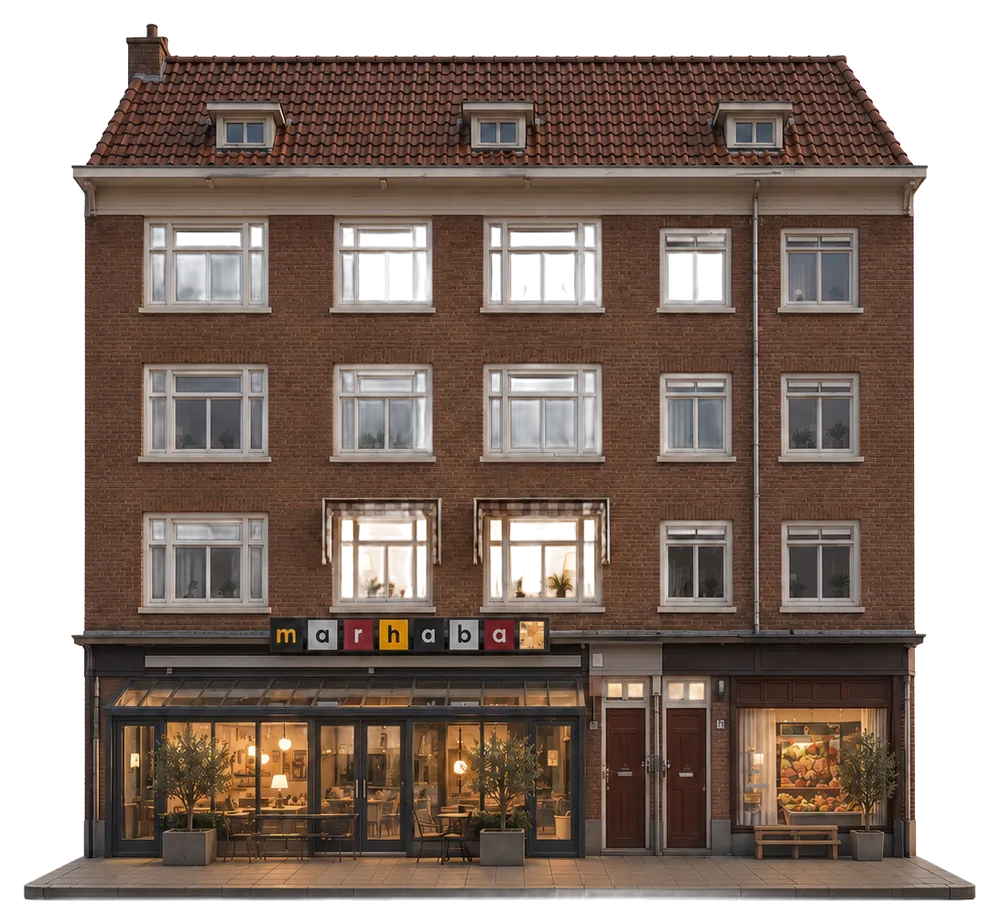
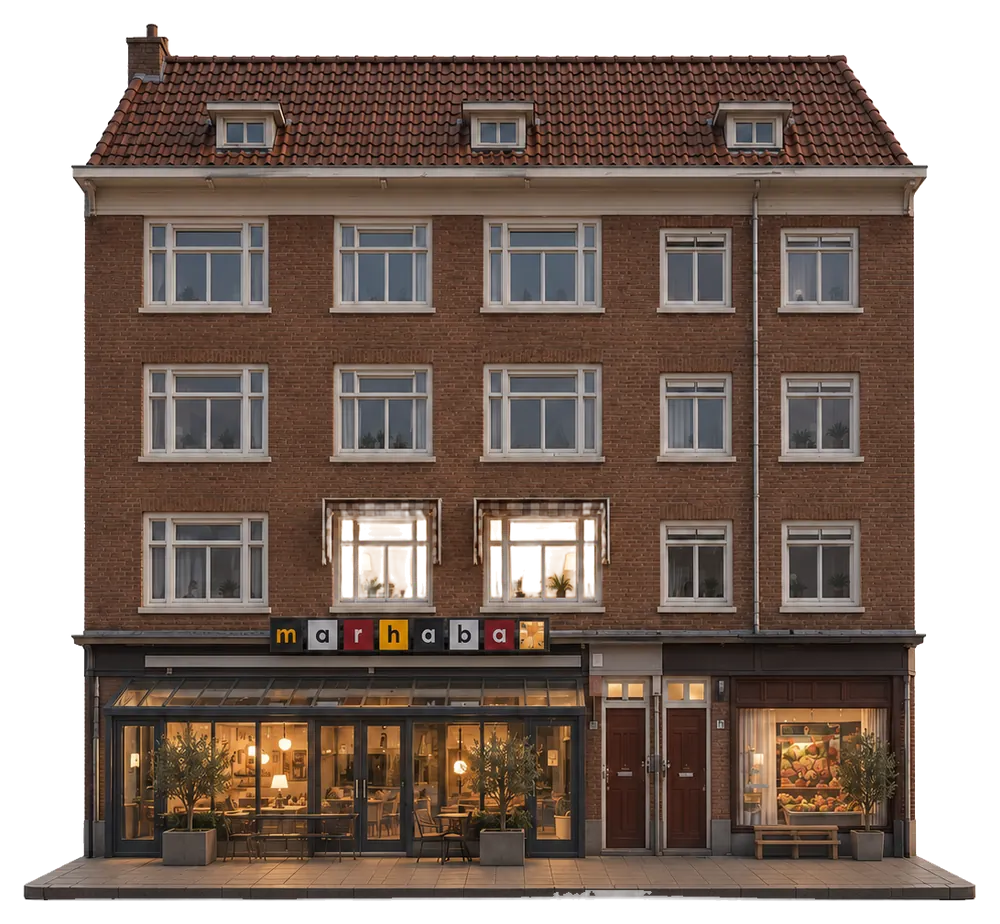
Feedback: Amsterdam windows, line over the mountains, credits
- 11-amsterdam: background removal had cut out most window panes. All
  windows are filled again except the two above MARHABA; those stay
  open and the light now comes on behind them (two glows).
  process-illustrations.py can regenerate a single file
  (python scripts/process-illustrations.py <dir> 11-amsterdam.webp).
- The flight plan dots get a halo in the background colour, so the
  line stays visible where it runs over the dark Andes layers.
- Credits: the cast is just Ivonne and Niek.

Claude-Session: https://claude.ai/code/session_019eVX87Kwx22ygj9DczKTzP

diff --git a/src/scenes/amsterdam.ts b/src/scenes/amsterdam.ts
@@ -48,8 +48,8 @@ const amsterdam: Scene = {
       timeline.to(trip, { autoAlpha: 0, y: reducedMotion ? 0 : -30, duration: 0.08 }, 0.64);
       timeline.from(home, { autoAlpha: 0, y: reducedMotion ? 0 : 40, duration: 0.12, ease: 'power2.out' }, 0.68);
       if (house) timeline.fromTo(house, { filter: 'brightness(0.75) saturate(0.85)' }, { filter: 'brightness(1) saturate(1)', duration: 0.16 }, 0.8);
-      const glow = el.querySelector('[data-glow]');
-      if (glow) timeline.to(glow, { opacity: 0.85, duration: 0.06 }, 0.88);
+      const glows = el.querySelectorAll('[data-glow]');
+      timeline.to(glows, { opacity: 1, duration: 0.06, stagger: 0.03 }, 0.86);
     }
   },
 };

diff --git a/src/scripts/flight-plan.ts b/src/scripts/flight-plan.ts
@@ -122,6 +122,13 @@ export class FlightPlan {
       mask.append(reveal);
       defs.append(mask);
 
+      // Lichte rand om elke stip, zodat de lijn ook over donkere vlakken (bergen) zichtbaar blijft.
+      const halo = document.createElementNS(SVG, 'path');
+      halo.setAttribute('d', d);
+      halo.setAttribute('class', 'flight-plan-halo');
+      halo.setAttribute('mask', `url(#${id})`);
+      this.svg.append(halo);
+
       const dotted = document.createElementNS(SVG, 'path');
       dotted.setAttribute('d', d);
       dotted.setAttribute('class', 'flight-plan-line');

diff --git a/scripts/process-illustrations.py b/scripts/process-illustrations.py
@@ -20,6 +20,8 @@ from PIL import Image, ImageDraw, ImageFilter
 from rembg import new_session, remove
 
 SRC = Path(sys.argv[1])
+# Optioneel: alleen deze uitvoerbestanden schrijven, bijv. 11-amsterdam.webp
+ONLY = set(sys.argv[2:])
 OUT = Path(__file__).resolve().parent.parent / 'public' / 'images'
 OUT.mkdir(parents=True, exist_ok=True)
 session = new_session('isnet-general-use')
@@ -69,6 +71,8 @@ def trim(im: Image.Image, pad: float = 0.02) -> Image.Image:
 
 
 def save(im: Image.Image, name: str, max_width: int = 1200, quality: int = 80) -> None:
+    if ONLY and name not in ONLY:
+        return
     if im.width > max_width:
         im = im.resize((max_width, round(im.height * max_width / im.width)), Image.LANCZOS)
     path = OUT / name
@@ -88,12 +92,23 @@ simple = {
     '07-barcelona-gevel.webp': ('Ornate Mediterranean Facade with Balconies.png', 1000),
     '08-deurbel.webp': ('Vintage Brass Intercom Panel.png', 900),
     '10-koffer.webp': ('Vintage Sage Green Ribbed Suitcase.png', 900),
-    '11-amsterdam.webp': ('Marhaba Café at Dusk.png', 1000),
     '13-mas-terrats.webp': ('Mediterranean Stone Farmhouse Diorama-1.png', 1000),
     '13-mas-terrats-wijd.webp': ('Mediterranean Stone Farmhouse Diorama.png', 1400),
 }
 for out_name, (src_name, width, *floor) in simple.items():
     save(trim(cut(src_name, *floor)), out_name, width)
+
+# Amsterdam: rembg ziet de lichte ruiten als achtergrond. Alle ramen weer dicht, behalve de
+# twee boven MARHABA: die blijven open, zodat de site er licht achter kan laten branden.
+house = trim(cut('Marhaba Café at Dusk.png'))
+filled = fill_holes(house)
+alpha = np.asarray(filled.getchannel('A')).copy()
+original = np.asarray(house.getchannel('A'))
+for x0, y0, x1, y1 in ((0.325, 0.54, 0.43, 0.65), (0.486, 0.54, 0.608, 0.65)):  # % van het bijgesneden beeld
+    ys, xs = slice(int(y0 * house.height), int(y1 * house.height)), slice(int(x0 * house.width), int(x1 * house.width))
+    alpha[ys, xs] = original[ys, xs]
+filled.putalpha(Image.fromarray(alpha))
+save(filled, '11-amsterdam.webp', 1000)
 
 # Lima: het uitzicht door het balkonraam hoort bij het beeld.
 save(trim(fill_holes(cut('Sunlit Coastal Balcony View.png'))), '05-lima.webp', 1000)

diff --git a/docs/vertalingen.md b/docs/vertalingen.md
@@ -144,7 +144,7 @@ _Gegenereerd met `npm run export:translations`; niet met de hand bewerken._
 | `credits[3].role` | Special thanks to | Agradecimientos especiales | Met dank aan |
 | `credits[3].name` | Erasmus | Erasmus | Erasmus |
 | `credits[4].role` | Starring | Con la actuación de | In de hoofdrollen |
-| `credits[4].name` | Ivonne, Niek and his twin brother (as himself) | Ivonne, Niek y su hermano gemelo (como él mismo) | Ivonne, Niek en zijn tweelingbroer (als zichzelf) |
+| `credits[4].name` | Ivonne and Niek | Ivonne y Niek | Ivonne en Niek |
 
 ## ui.yml
 
